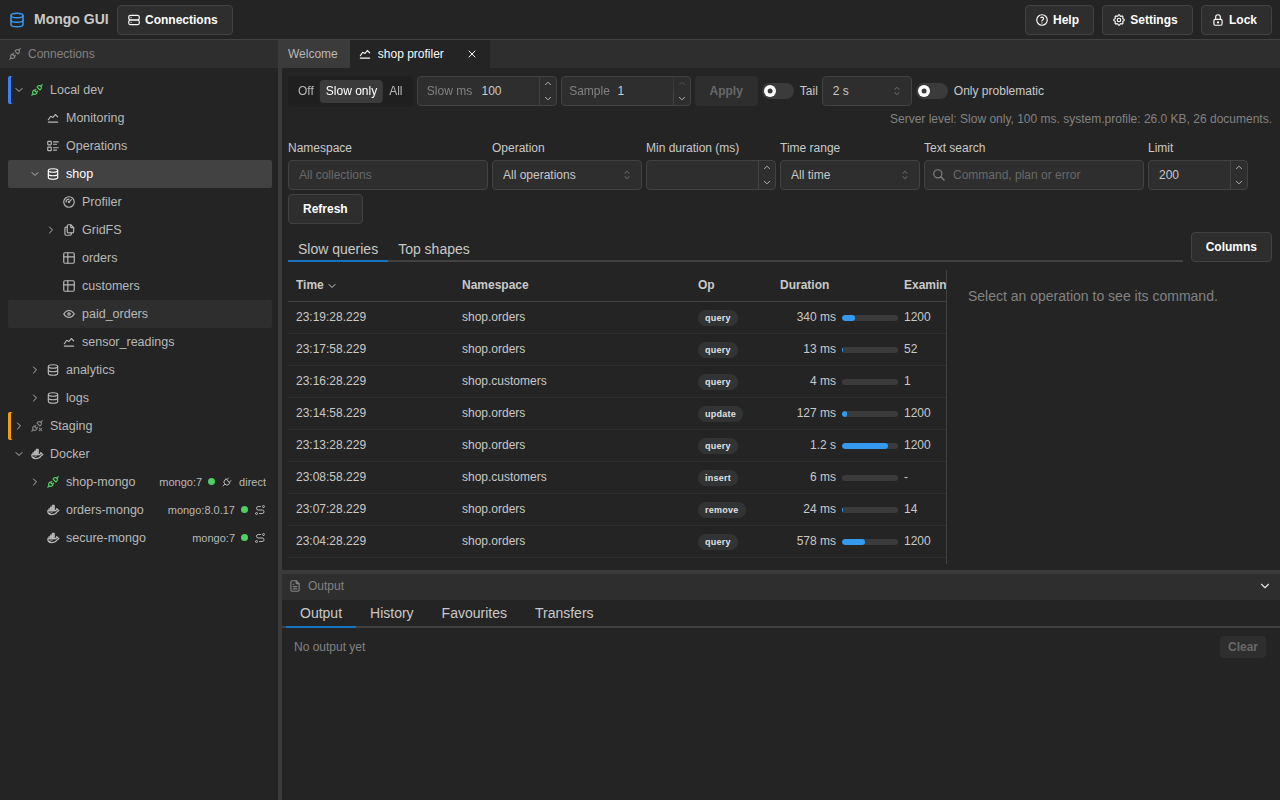
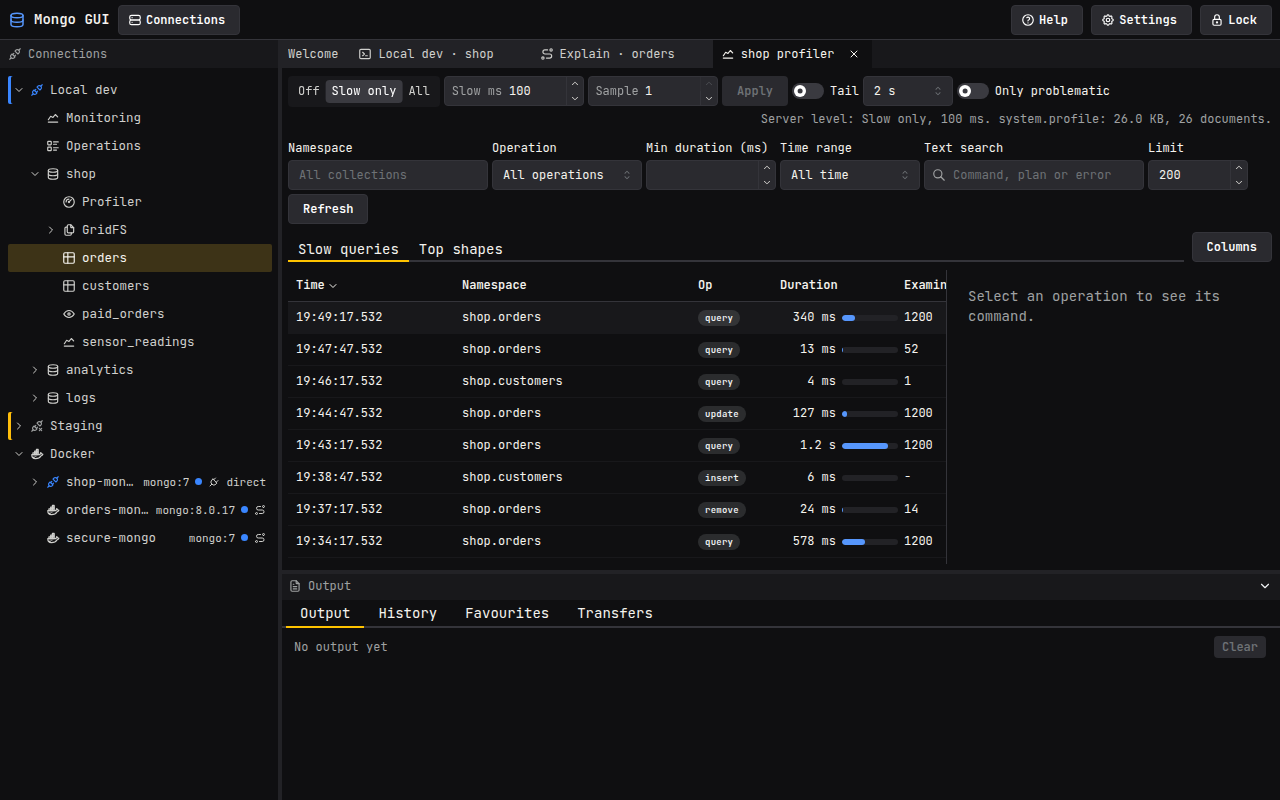
docs: keep four pinned screenshots and record the rule in CLAUDE.md
docs/screenshots now holds only the query, explain, profiler and
diagnostics images, taken in the graphite theme. The others and their
links are gone. The e2e specs write their step images to e2e/output, so
a run no longer puts removed screenshots back.

diff --git a/e2e/tests/editor.spec.ts b/e2e/tests/editor.spec.ts
@@ -25,7 +25,8 @@ const MASTER_PASSWORD = 'correct horse battery staple';
 const CONNECTION_NAME = 'E2E Mongo';
 const DEVTOOLS_PORT = 9235;
 const DOCUMENT_COUNT = 300;
-const DOCS_DIR = `${process.cwd()}/docs/screenshots`;
+// Step images for a person to look at. The docs screenshots are a fixed set, see CLAUDE.md.
+const OUTPUT_DIR = `${process.cwd()}/e2e/output/editor`;
 
 test('editor, results, paging, tree edit, print, history and favourites, end to end', async () => {
   const uri = mongoUriFromEnv();
@@ -93,17 +94,17 @@ test('editor, results, paging, tree edit, print, history and favourites, end to 
       await expect(window.getByRole('tree', { name: 'Document tree' })).toBeVisible();
       await window.getByRole('button', { name: 'Collapse all' }).click();
       await window.getByRole('button', { name: 'Expand #1', exact: true }).click();
-      await window.screenshot({ path: `${DOCS_DIR}/editor-tree.png`, animations: 'disabled' });
+      await window.screenshot({ path: `${OUTPUT_DIR}/editor-tree.png`, animations: 'disabled' });
 
       await viewSwitch(window, 'json').click();
       await expect(window.locator('.monaco-editor').nth(1).locator('.view-lines')).toContainText(
         'ORD-',
       );
-      await window.screenshot({ path: `${DOCS_DIR}/editor-json.png`, animations: 'disabled' });
+      await window.screenshot({ path: `${OUTPUT_DIR}/editor-json.png`, animations: 'disabled' });
 
       await viewSwitch(window, 'table').click();
       await expect(window.getByRole('button', { name: /^Columns / })).toBeVisible();
-      await window.screenshot({ path: `${DOCS_DIR}/editor-table.png`, animations: 'disabled' });
+      await window.screenshot({ path: `${OUTPUT_DIR}/editor-table.png`, animations: 'disabled' });
     });
 
     await test.step('edit the first document status in the tree and check the server', async () => {
@@ -136,7 +137,7 @@ test('editor, results, paging, tree edit, print, history and favourites, end to 
           .getByText(/db\.orders\.find/)
           .first(),
       ).toBeVisible();
-      await window.screenshot({ path: `${DOCS_DIR}/history.png`, animations: 'disabled' });
+      await window.screenshot({ path: `${OUTPUT_DIR}/history.png`, animations: 'disabled' });
     });
 
     await test.step('save the query as a favourite', async () => {

diff --git a/e2e/support/screenshots.ts b/e2e/support/screenshots.ts
@@ -1,28 +1,13 @@
 import type { Page } from '@playwright/test';
-import { copyFile, mkdir } from 'node:fs/promises';
+import { mkdir } from 'node:fs/promises';
 import { join, resolve } from 'node:path';
 
 const outputRoot = resolve(import.meta.dirname, '..', 'output');
-const docsScreenshotDir = resolve(import.meta.dirname, '..', '..', 'docs', 'screenshots');
 
-/** README screenshots that the smoke run refreshes when E2E_UPDATE_DOCS=1. */
-export type DocsScreenshot = 'connection-tree.png' | 'unlock.png';
-
-/**
- * Saves `e2e/output/<spec>/<step>.png`. With E2E_UPDATE_DOCS=1 and a docs name, the same image
- * also replaces that file under docs/screenshots.
- */
-export async function captureStep(
-  page: Page,
-  spec: string,
-  step: string,
-  docs?: DocsScreenshot,
-): Promise<void> {
+/** Saves `e2e/output/<spec>/<step>.png`. The docs screenshots are a fixed set, see CLAUDE.md. */
+export async function captureStep(page: Page, spec: string, step: string): Promise<void> {
   const specDir = join(outputRoot, spec);
   await mkdir(specDir, { recursive: true });
   const file = join(specDir, `${step}.png`);
   await page.screenshot({ path: file, animations: 'disabled', caret: 'hide' });
-  if (docs !== undefined && process.env['E2E_UPDATE_DOCS'] === '1') {
-    await copyFile(file, join(docsScreenshotDir, docs));
-  }
 }

diff --git a/e2e/tests/smoke.spec.ts b/e2e/tests/smoke.spec.ts
@@ -75,14 +75,14 @@ test('master password, connection tree and lock, end to end', async () => {
       await expect(treeItem(window, 'shop')).toHaveAttribute('aria-expanded', 'true');
       await expect(treeItem(window, 'orders')).toBeVisible();
       await waitForToastToClear(window);
-      await captureStep(window, SPEC, '06-tree-expanded', 'connection-tree.png');
+      await captureStep(window, SPEC, '06-tree-expanded');
     });
 
     await test.step('lock returns to the unlock screen', async () => {
       await window.getByRole('button', { name: 'Lock', exact: true }).click();
       await expect(window.getByRole('heading', { name: 'Unlock Mongo GUI' })).toBeVisible();
       await waitForToastToClear(window);
-      await captureStep(window, SPEC, '07-locked', 'unlock.png');
+      await captureStep(window, SPEC, '07-locked');
     });
 
     await test.step('a wrong password shows the error', async () => {

diff --git a/docs/user-guide.md b/docs/user-guide.md
@@ -152,8 +152,6 @@ tests the credentials first. If the test fails, the dialog shows the error and s
 success, the app saves the credentials in the encrypted vault on the container's connection, so
 the next connect does not ask again.
 
-![Credentials dialog for a password-protected container](screenshots/docker-credentials.png)
-
 The right-click menu on a container offers "Open container details" and "Copy URI (redacted)".
 The details panel lists the container id, image, networks and environment variable names. It
 does not show their values.
@@ -177,8 +175,6 @@ The left panel shows the connections. Each connected server has these nodes:
   state, PRIMARY, SECONDARY or ARBITER, and marks the member this connection talks to. Right-click
   a member for "Connect directly", which saves a connection to that one host with the same
   credentials and opens it, or "Copy host". Double-click a member to connect directly too.
-
-![Replica set node with the members, their states and the member menu](screenshots/replica-tree.png)
 
 - Databases. Expand a database to see its collections, views and time series collections.
 - Profiler. Opens the profiler.
@@ -238,8 +234,6 @@ the other tabs in the same group. "Close tabs to the left" and "Close tabs to th
 tabs on that side in the group, and their items are off when no tab lies on that side. "Close all
 tabs" closes every tab. The connections, welcome and output panels never close from this menu.
 
-![Tab menu of an editor tab with the close actions](screenshots/tab-menu.png)
-
 ## The editor
 
 Open an editor from a database. Choose "Open editor" from the database menu, or press Ctrl+N
@@ -292,7 +286,7 @@ To export the result of the last run, use the results pane. See [Results](#resul
 The results pane shows the documents of the last run. Switch between three views with the
 "Result view" control: "Table", "Tree" and "JSON".
 
-![Editor with a find result in table view](screenshots/editor-table.png)
+![Editor with a find result in table view](screenshots/query.png)
 
 - Table view shows one column for each field. The "Columns" menu chooses which columns show.
   Nested fields appear as dotted paths. Double-click a row to open its whole document. The
@@ -301,15 +295,11 @@ The results pane shows the documents of the last run. Switch between three views
   "Copy document". The value copies in mongosh form, the key is the dotted field path, and the
   document copies as canonical JSON.
 
-![Cell menu of the table view with the copy actions](screenshots/cell-menu.png)
-
 - Tree view shows each document as an expandable tree. Each value has a type badge. "Collapse
   all" folds the tree. Each row has "Copy path" and "Copy value" buttons. Double-click the
   top-level row of a document, the one marked with its position such as "#1", to open the whole
   document. Double-click a field name, or use its pencil button, to edit the value in place.
 - JSON view shows the result as read-only mongosh-style text.
-
-![Tree view of a document with type badges](screenshots/editor-tree.png)
 
 Paging:
 
@@ -337,7 +327,7 @@ Open an explain from the editor with "Explain", or from a profiler entry with "E
 The panel has two tabs. "Plan" shows the plan as a tree. "Raw" shows the document that the
 server returned.
 
-![Explain panel with a $lookup sub-tree open](screenshots/explain.png)
+![Explain panel with the summary, a collection scan warning and the plan stages](screenshots/explain.png)
 
 Use the "Verbosity" control to choose how much the server reports:
 
@@ -383,8 +373,6 @@ text. This replaces the mongosh the tab held. The SQL stays in the tab, so choos
 language control brings it back. Right-click the tab and choose "Open in Mongo" to do the same from
 the tab menu. Both are disabled when the text has no statement or a statement does not
 translate. The tab menu item shows the message as its tooltip.
-
-![SQL tab with the read-only Mongo query beside the editor and the result below](screenshots/sql-mode.png)
 
 To run SQL:
 
@@ -472,8 +460,6 @@ creates the new definition. If the create fails after the drop, the collection h
 that name until you save a definition that works. The "Edit" action is disabled on the "_id_" index. Neither
 does an index whose keys the builder cannot show, such as a geoHaystack key.
 
-![Indexes panel with the edit index dialog open and the drop warning](screenshots/indexes.png)
-
 ### Validation
 
 Open the "Validation" panel from "Structure" in the collection menu. It shows the JSON schema validator of
@@ -486,8 +472,6 @@ the collection in an editor.
 4. Set "Sample size" and click "Check against sample" to test the validator on sample
    documents.
 5. Click "Save".
-
-![Validation panel with a JSON schema validator](screenshots/validation.png)
 
 ### Documents
 
@@ -503,15 +487,11 @@ Choose "Open documents" from the collection menu to run `find({})` in an editor 
   matching" once you have counted the matches. "Delete all shown" deletes only the rows on the
   screen. Both ask for confirmation.
 
-![Documents panel with the first documents of a collection](screenshots/documents.png)
-
 ## Monitoring
 
 Open the "Monitor" panel from "Monitoring" in the connection menu, or from the Monitoring node in the tree.
 The dashboard charts server metrics in panels. Each panel shows one group of metrics, such as
 operations per second, connections, memory, the WiredTiger cache or replication lag.
-
-![Monitor dashboard with stat tiles and charts](screenshots/monitor.png)
 
 Panel controls:
 
@@ -522,8 +502,6 @@ Panel controls:
    explains the metric. "Close panel" removes the panel.
 3. Drag a panel by its handle to move it. The handle has the tooltip "Drag to move this panel".
 4. Click "Reset to default" to restore the default panels.
-
-![Add panel picker, grouped by category](screenshots/monitor-picker.png)
 
 The sampling interval is in the dashboard header. The choices are 1 s, 2 s, 5 s and 10 s. The
 layout is saved for each connection. If the app cannot save the layout, it shows "The
@@ -537,14 +515,12 @@ node in the tree.
 2. Click the "Kill operation" button on a row to stop an operation. The app asks for
    confirmation first.
 
-![Running operations with a long-running command](screenshots/operations.png)
-
 ## Profiler
 
 Open the profiler from the database menu with "Monitoring" > "Open profiler". The profiler has two tabs:
 "Slow queries" and "Top shapes".
 
-![Profiler panel with slow queries and the detail pane](screenshots/profiler.png)
+![Profiler panel with the slow queries of the shop database](screenshots/profiler.png)
 
 1. Choose a "Profiling level" for the database: "Off", "Slow only" or "All".
 2. Set "Slow threshold (ms)" and click "Apply". The server records operations slower than this
@@ -563,8 +539,6 @@ Open the profiler from the database menu with "Monitoring" > "Open profiler". Th
    editor. "Copy" copies it.
 6. Open "Top shapes" to see the query shapes that take the most time. Click a shape to filter the
    slow queries to that shape.
-
-![Profiler top query shapes view](screenshots/profiler-shapes.png)
 
 ## Import and export
 
@@ -586,8 +560,6 @@ has three steps: "Choose file", "Preview and mapping" and "Options and run".
    counts. Click "Cancel" to stop the import.
 5. Click "Open collection" to see the result, or "Import another" to start over.
 
-![Import wizard at the preview and mapping step](screenshots/import.png)
-
 ### Export
 
 Choose "Import and export" > "Export data" on a collection.
@@ -599,8 +571,6 @@ Choose "Import and export" > "Export data" on a collection.
 4. Click "Save as" and pick the file. The app writes only to the file you pick.
 5. Click "Start export". The progress view shows the count. Click "Show in folder" when it
    finishes.
-
-![Export dialog with a filter and the NDJSON format](screenshots/export.png)
 
 The file rules are these:
 
@@ -646,8 +616,6 @@ The generators are:
 
 Nested objects and arrays are not generated.
 
-![Generate data dialog with fields, generators and the unique flag](screenshots/generate-data.png)
-
 ## Schema analysis
 
 Open "Analyse schema" from "Structure" in the collection menu.
@@ -670,13 +638,9 @@ Each field has an "Actions for" menu with three items:
 
 Click "Export report" to copy the report.
 
-![Schema panel with a summary, type bars and a field table](screenshots/schema.png)
-
 ## Users and roles
 
 Open "Users and roles" from the database menu, or from "Administration" in the connection menu. The panel has two tabs.
-
-![Users and roles panel with the users of a database and their roles](screenshots/users.png)
 
 The "Users" tab lists the users of the database. Create a user with "Create user". The dialog asks
 for a user name, a password and its confirmation, the authentication mechanisms ("SCRAM-SHA-256"
@@ -701,8 +665,6 @@ understand that I may lose the right to manage users" before it saves that chang
 ## Replica set
 
 Open "Replica set" from "Administration" in the connection menu. The panel shows the members of the set.
-
-![Replica set panel with the members table, state badges, lag and the election list](screenshots/replica-set.png)
 
 The members table shows each member's host, state, health, lag, priority, votes, hidden flag,
 delay, tags and arbiter flag. The panel also shows the oplog window and the list of elections.
@@ -730,8 +692,6 @@ set.
 
 Open "Sharding" from "Administration" in the connection menu. The panel has four tabs: "Shards", "Databases",
 "Collections" and "Zones".
-
-![Sharding panel with the balancer state, a collections table with chunk bars per shard and the Distribution action](screenshots/sharding.png)
 
 - The header shows the balancer state, "Balancer on" or "Balancer off". "Start balancer" and
   "Stop balancer" change it.
@@ -771,8 +731,6 @@ and index size.
 
 Each database has a GridFS node in the tree. Open a bucket from that node.
 
-![GridFS panel with the files of a bucket, the metadata badges and an upload in progress](screenshots/gridfs.png)
-
 1. Click "New GridFS bucket" in the database menu, type a "Bucket name", and confirm.
 2. Click "Upload file" and pick a file. When a file with the same name exists, the app asks
    "Replace existing file?". Choose "Skip", "Replace" or "Replace all", or click "Stop".
@@ -790,8 +748,6 @@ the bucket name.
 
 Open a change stream with "Watch changes", in the "Monitoring" submenu of a collection, a
 database or a connection. The menu on a connection watches the whole deployment.
-
-![Change stream panel with the live event list, the state strip and the detail pane](screenshots/change-streams.png)
 
 1. Read the "Target" field. It shows the collection, database or deployment.
 2. Set "Full document" for updates. Set "Full document before change" to include the document

diff --git a/README.md b/README.md
@@ -7,8 +7,6 @@ You run mongosh statements in an editor and read the results as a grid, a tree o
 window shows indexes, explain plans, the profiler, live server metrics and backups. The app is free
 to use, modify and share. You may not sell it. The license is Apache 2.0 with the Commons Clause.
 
-![Shell with connections, welcome and output panels](docs/screenshots/shell.png)
-
 ## Why Mongo GUI
 
 | Tool            | Licence                        | Price                                                                                                           |
@@ -41,8 +39,6 @@ encrypted store. A master password you type at launch unlocks it.
 The lock does not stop code that runs as your user while the app is unlocked. Lock the app when you
 step away from the machine. See [docs/security.md](docs/security.md) for the threat model and the key
 hierarchy.
-
-![Unlock screen with the master password field](docs/screenshots/unlock.png)
 
 ## Features
 
@@ -82,19 +78,13 @@ hierarchy.
 
 The screenshots show version 0.1.0, except the SQL mode and backup screenshots, which show the next release.
 
-![Query editor with the documents of a find shown as a grid](docs/screenshots/editor-table.png)
+![Query editor with the documents of a find shown as a grid](docs/screenshots/query.png)
 
 Results of a find open as a grid. The tree and JSON views show the same result.
 
-![SQL tab with the read-only Mongo query beside the editor and the result below](docs/screenshots/sql-mode.png)
-
 A SQL tab shows the mongosh it runs, beside the editor.
 
-![Explain panel with the summary, the plan tree and the $lookup sub-tree open](docs/screenshots/explain.png)
-
-![Live monitoring dashboard with stat tiles and charts](docs/screenshots/monitor.png)
-
-![Backup dialog for the shop database with the folder, name and format fields](docs/screenshots/backup.png)
+![Explain panel with the summary, a collection scan warning and the plan stages](docs/screenshots/explain.png)
 
 ## Development
 

diff --git a/CLAUDE.md b/CLAUDE.md
@@ -1,0 +1,17 @@
+# Mongo GUI
+
+## Docs screenshots
+
+`docs/screenshots` holds exactly four pinned screenshots. Do not add others.
+
+| File              | Shows                                                                 |
+| ----------------- | --------------------------------------------------------------------- |
+| `query.png`       | Editor tab on Local dev, shop, after `db.orders.find({})`, Table view |
+| `explain.png`     | Explain tab for `db.orders.find({ status: 'paid' })`                  |
+| `profiler.png`    | Profiler of the shop database, Slow queries tab                       |
+| `diagnostics.png` | Diagnostics of Local dev, Logs tab                                    |
+
+- Refresh them when the UI they show changes, from the browser mock UI at 1280x800 in the dark
+  theme. `.claude/skills/run-app/SKILL.md` has the launch steps and selectors.
+- Hand the capture to a subagent on the Haiku model, and look at each image before you keep it.
+- Tests and scripts write their images to `e2e/output`, never to `docs/screenshots`.
